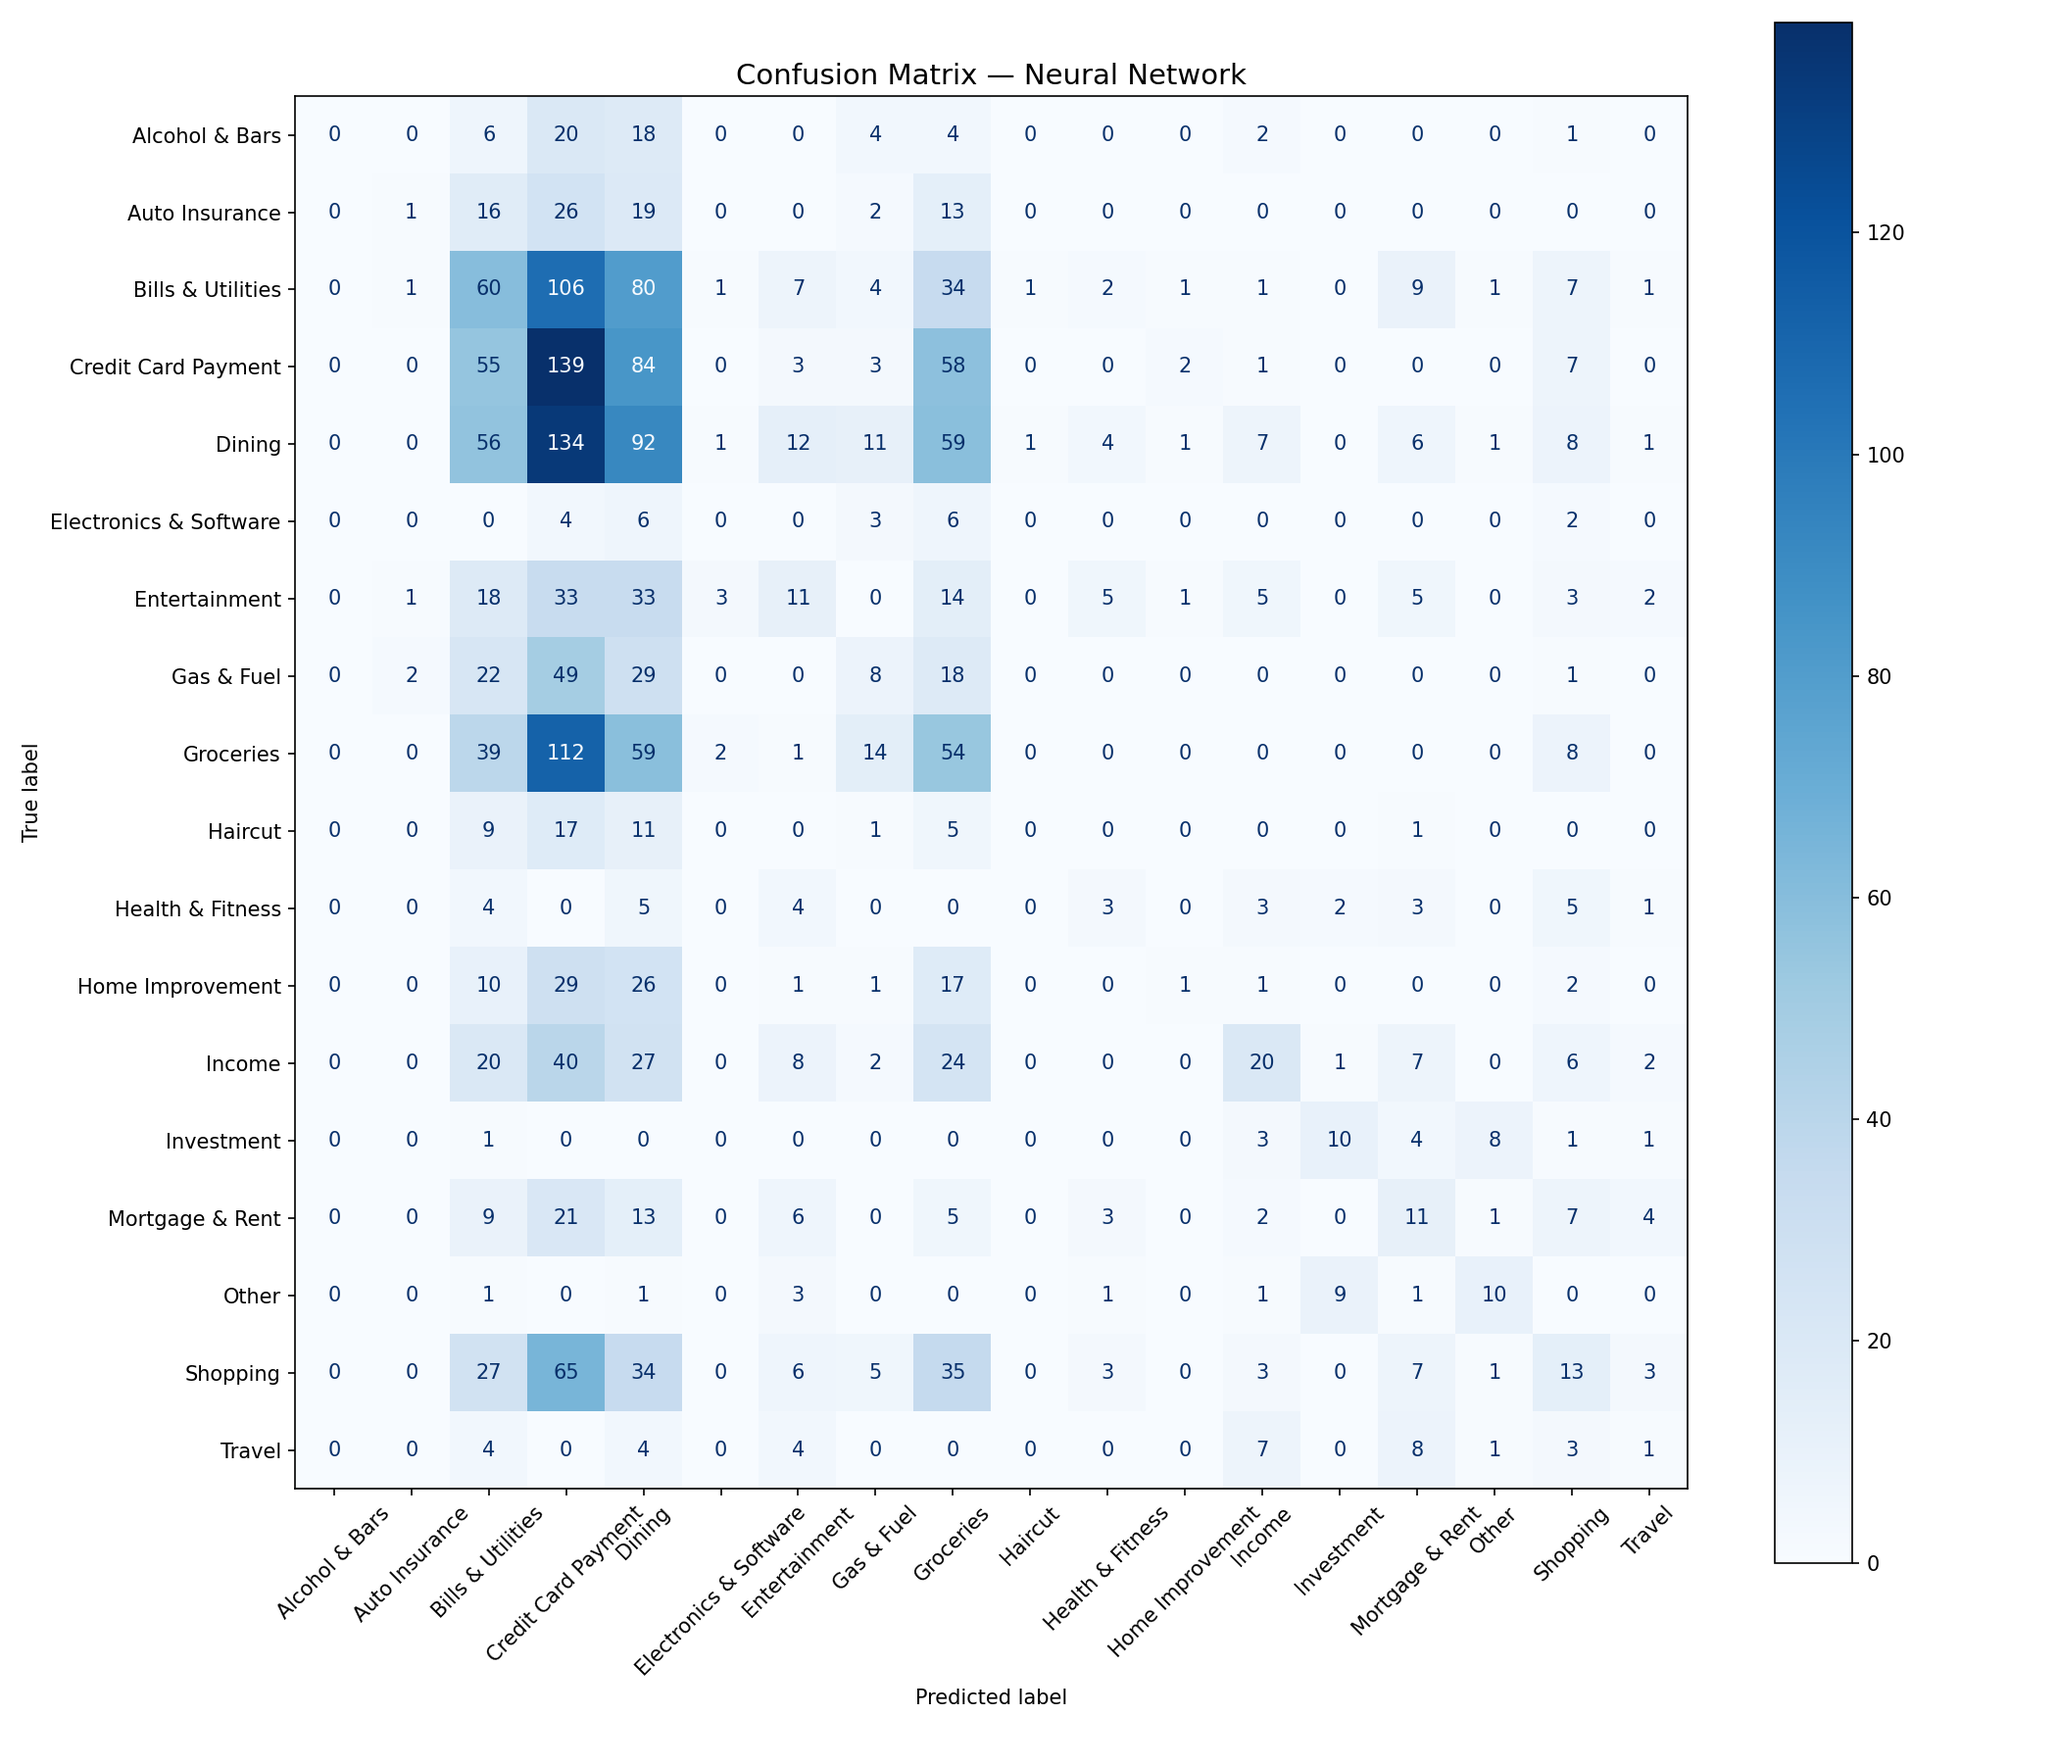
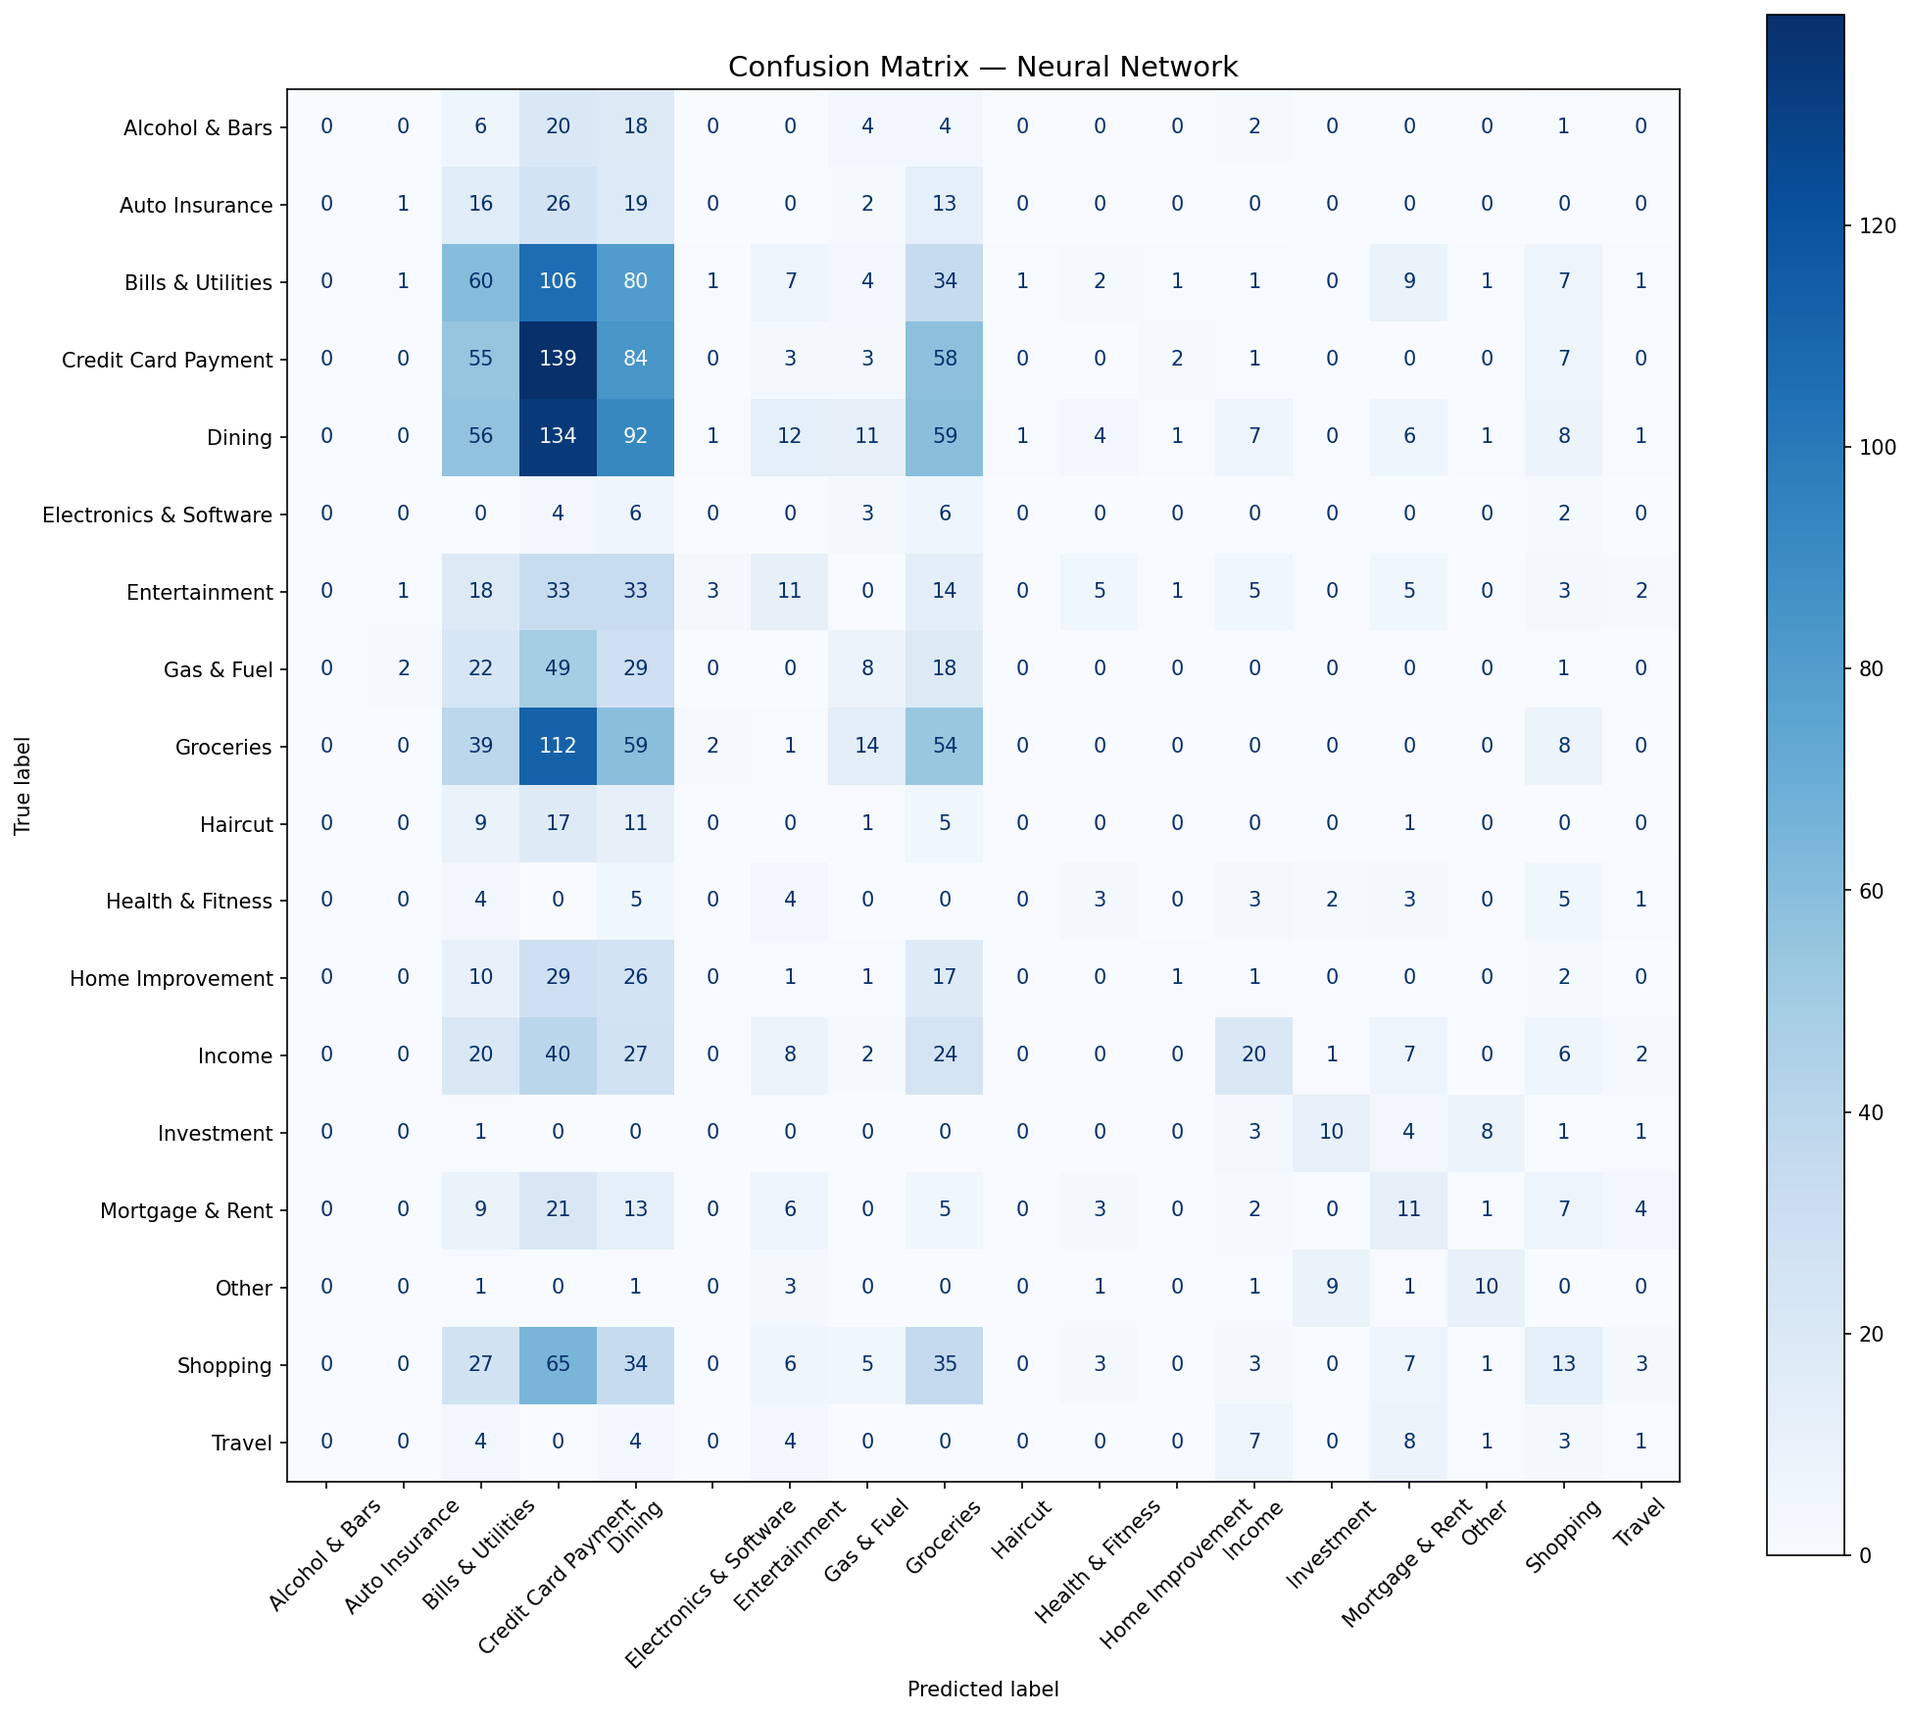
Update figures

diff --git a/src/evaluate.py b/src/evaluate.py
@@ -89,7 +89,7 @@ def save_confusion_matrix(
     plt.tight_layout()
 
     out_path = output_dir / f"{model_name.lower().replace(' ', '_')}_confusion_matrix.png"
-    fig.savefig(out_path, dpi=150)
+    fig.savefig(out_path, dpi=150, bbox_inches="tight")
     plt.close(fig)
     print(f"Confusion matrix saved to {out_path}")
 
